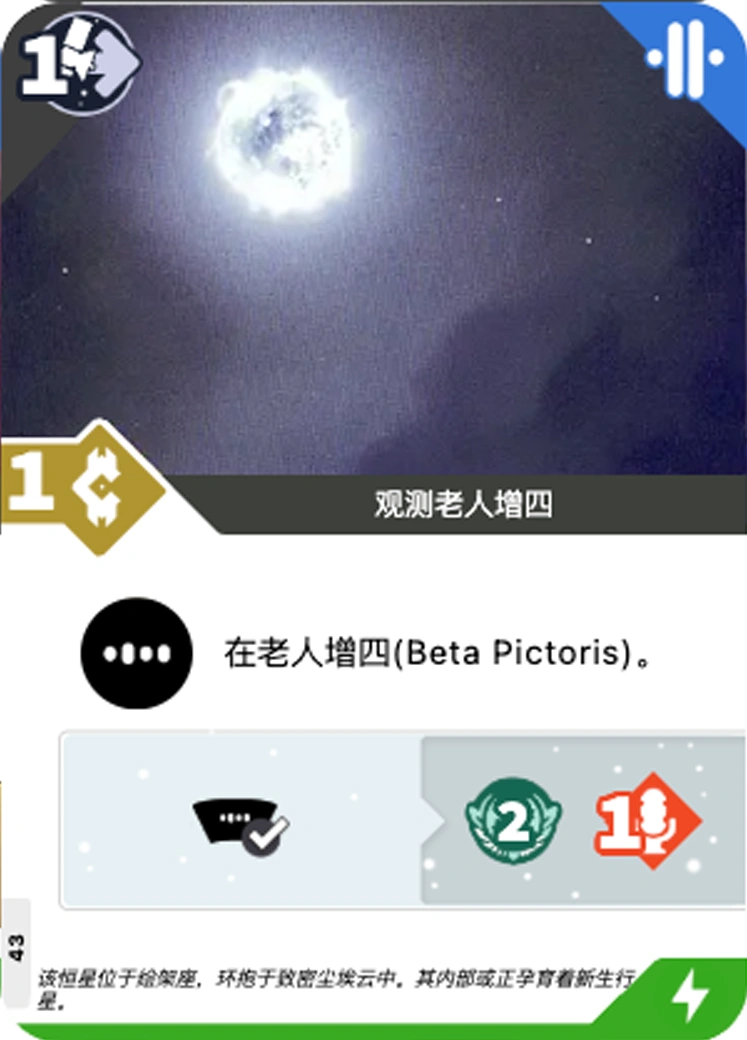
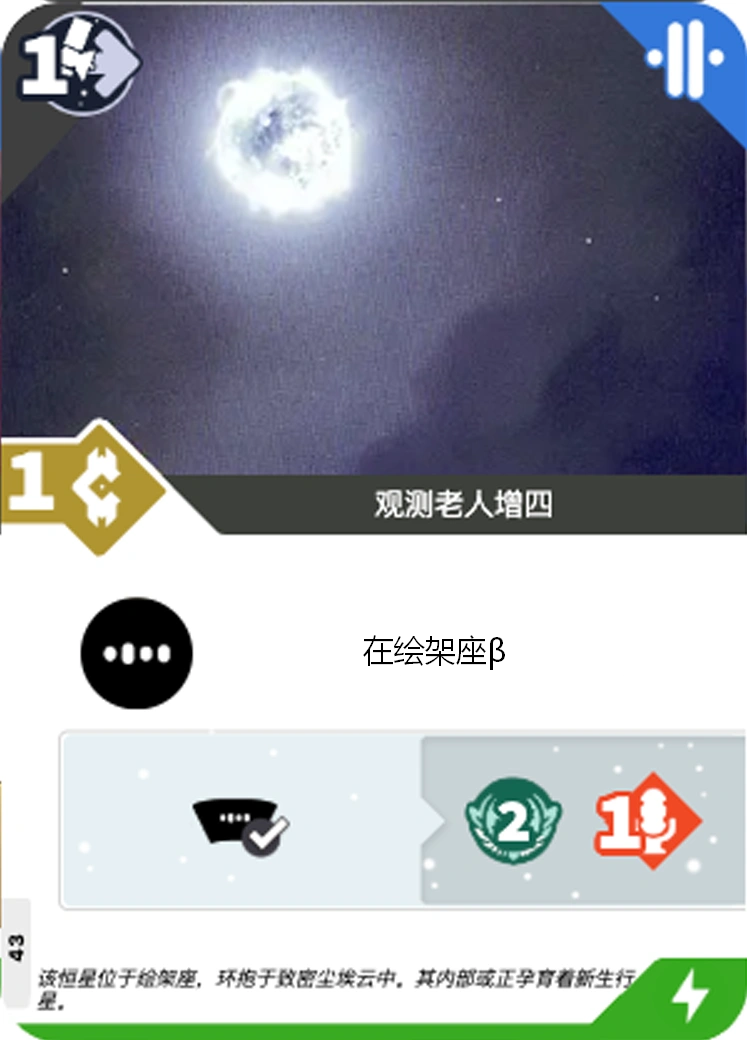
图灵优化，日志优化

Changed region(s): [[0.3079, 0.6154, 0.8621, 0.6462]]

diff --git a/randomizer/app.js b/randomizer/app.js
@@ -155,6 +155,7 @@
   const HISTORY_SOURCE_MAIN = "main";
   const HISTORY_SOURCE_QUICK = "quick";
   const HISTORY_SOURCE_SETUP = "setup";
+  const INDUSTRY_TURING_BORROW_TECH_TYPES = Object.freeze(["orange", "purple"]);
   const historyStepOrder = [];
   const actionLogState = {
     entries: [],
@@ -1743,10 +1744,25 @@
     }
   }
 
-  function createActionLogEffectTextNode(step) {
+  function getActionLogEntryMetaText(entry) {
+    const playerLabel = entry.playerLabel || "未知玩家";
+    const actionLabel = entry.actionLabel || "本回合行动";
+    if (entry.actionType === "quick") return `${playerLabel} · 快速行动`;
+    if (entry.actionType === "initialSelection") return `${playerLabel} · ${actionLabel}`;
+    return `${playerLabel} · 主要行动：${actionLabel}`;
+  }
+
+  function getActionLogStepPrefix(step, displayIndex = null) {
+    if (step?.source === HISTORY_SOURCE_MAIN) {
+      return `效果${displayIndex || 1}`;
+    }
+    return ACTION_LOG_SOURCE_LABELS[step?.source] || "行动";
+  }
+
+  function createActionLogEffectTextNode(step, displayIndex = null) {
     const text = document.createElement("span");
     text.className = "action-log-effect-text";
-    const sourceLabel = ACTION_LOG_SOURCE_LABELS[step.source] || "行动";
+    const sourceLabel = getActionLogStepPrefix(step, displayIndex);
     const line = `${sourceLabel}：${step.text}${formatActionLogIrreversibleSuffix(step)}`;
     appendActionLogTextWithPlayedCard(text, line, step.playedCard);
     return text;
@@ -1770,21 +1786,24 @@
 
     const meta = document.createElement("div");
     meta.className = "action-log-entry-meta";
-    meta.textContent = `${entry.playerLabel || "未知玩家"} · ${entry.actionLabel || "本回合行动"}`;
+    meta.textContent = getActionLogEntryMetaText(entry);
 
     header.append(title, sequence, meta);
 
     const list = document.createElement("ol");
     list.className = "action-log-effects";
+    let mainEffectIndex = 0;
     entry.steps.forEach((step, index) => {
       const item = document.createElement("li");
       item.className = `action-log-effect action-log-effect-${step.source || "main"}`;
+      const isMainEffect = step.source === HISTORY_SOURCE_MAIN;
+      const displayIndex = isMainEffect ? (mainEffectIndex += 1) : index + 1;
 
       const indexNode = document.createElement("span");
       indexNode.className = "action-log-effect-index";
       indexNode.textContent = String(index + 1);
 
-      const text = createActionLogEffectTextNode(step);
+      const text = createActionLogEffectTextNode(step, displayIndex);
 
       item.append(indexNode, text);
       list.append(item);
@@ -21505,7 +21524,7 @@
     techGameState.ui.industryBorrowMode = true;
     techGameState.ui.selectedTileId = null;
     techGameState.ui.pendingTileId = null;
-    techGameState.ui.allowedTechTypes = null;
+    techGameState.ui.allowedTechTypes = [...INDUSTRY_TURING_BORROW_TECH_TYPES];
     techGameState.ui.statusNote = flow.message;
     rocketState.statusNote = flow.message;
     syncTechSelectionChrome();
@@ -21514,7 +21533,39 @@
     return true;
   }
 
+  function failIndustryTuringBorrow(message) {
+    techGameState.ui.statusNote = message;
+    rocketState.statusNote = message;
+    renderTechBoard();
+    renderStateReadout();
+    return { ok: false, message };
+  }
+
+  function checkIndustryTuringBorrowTile(tileId) {
+    const techType = tech.getTechType?.(tileId) || null;
+    if (!INDUSTRY_TURING_BORROW_TECH_TYPES.includes(techType)) {
+      return { ok: false, message: "图灵系统只能借用橙色或紫色科技" };
+    }
+
+    const player = getCurrentPlayer();
+    if (!player) return { ok: false, message: "没有当前玩家" };
+    if (!player.techState) player.techState = players.normalizePlayerTechState(null);
+
+    const check = tech.resolver.canTakeTile(
+      techGameState.board,
+      player.techState,
+      tileId,
+      { techTypes: INDUSTRY_TURING_BORROW_TECH_TYPES },
+    );
+    return check.ok ? { ok: true, techType } : check;
+  }
+
   function confirmIndustryTuringBorrow(tileId) {
+    const borrowCheck = checkIndustryTuringBorrowTile(tileId);
+    if (!borrowCheck.ok) {
+      return failIndustryTuringBorrow(borrowCheck.message || "无法借用该科技");
+    }
+
     const player = getCurrentPlayer();
     const beforePlayer = structuredClone(player);
     player.industryBorrowedTechTileId = tileId;

diff --git a/randomizer/game/tech/tech.test.js b/randomizer/game/tech/tech.test.js
@@ -125,6 +125,23 @@ assert.equal(autoPlayerState.players[0].techState.blueBoardSlots.blue4, 4);
 const takeBlue1Again = tech.resolver.executeTakeTech(context, { tileId: "blue1" });
 assert.equal(takeBlue1Again.ok, false);
 
+const turingBorrowFilterContext = createContext(10);
+const turingBorrowPlayer = players.getCurrentPlayer(turingBorrowFilterContext.playerState);
+turingBorrowFilterContext.ensurePlayerTechState(turingBorrowPlayer);
+const turingBorrowOptions = { techTypes: ["orange", "purple"] };
+assert.equal(
+  tech.resolver.canTakeTile(turingBorrowFilterContext.techGameState.board, turingBorrowPlayer.techState, "blue1", turingBorrowOptions).ok,
+  false,
+);
+assert.equal(
+  tech.resolver.canTakeTile(turingBorrowFilterContext.techGameState.board, turingBorrowPlayer.techState, "orange1", turingBorrowOptions).ok,
+  true,
+);
+assert.equal(
+  tech.resolver.canTakeTile(turingBorrowFilterContext.techGameState.board, turingBorrowPlayer.techState, "purple1", turingBorrowOptions).ok,
+  true,
+);
+
 const depletionBoard = tech.createState().board;
 const orange1Queue = [...depletionBoard.stacks.orange1.bonusQueue];
 for (let index = 0; index < 4; index += 1) {

diff --git a/randomizer/game/industry/industry.test.js b/randomizer/game/industry/industry.test.js
@@ -67,6 +67,9 @@ assert.equal(turingPlayer.industryBorrowedTechTileId, null);
 assert.equal(turingPlayer.industryBorrowedTechRound, 0);
 assert.equal(turingPlayer.industryBorrowedTechTurn, 0);
 assert.equal(state.clearTuringBorrowedTech(turingPlayer).cleared, false);
+const turingFlow = abilities.buildActiveAbilityFlow(turingPlayer, "图灵系统", 2, 4);
+assert.equal(turingFlow.ok, true);
+assert.match(turingFlow.message, /橙色或紫色科技/);
 
 assert.equal(passives.getStandardLaunchCost(alienLabPlayer).credits, 1);
 assert.equal(passives.getStandardScanCost(alienLabPlayer).energy, 2);

diff --git a/randomizer/game/industry/abilities.js b/randomizer/game/industry/abilities.js
@@ -173,7 +173,7 @@
           abilityId,
           flowType: "turing_borrow_tech",
           label: prepared.label,
-          message: `${prepared.label}：请选择一项科技借用当前回合效果（不获得板块与 bonus）`,
+          message: `${prepared.label}：请选择一项橙色或紫色科技借用当前回合效果（不获得板块与 bonus）`,
         };
       case "sentinel_arm_play_corner":
         return {

diff --git a/assets/industry/industry-abilities.md b/assets/industry/industry-abilities.md
@@ -54,7 +54,7 @@
 | 公司 | activeAbilityId | flowType | 规则摘要 |
 |------|-----------------|----------|----------|
 | 层云核心 | `stratus_public_corners` | `stratus_public_corners` | 点击公共牌最多 3 张，逐张结算**左上角弃牌角标**（不弃牌、不移除公共牌） |
-| 图灵系统 | `turing_borrow_tech` | `turing_borrow_tech` | 选择供应区一项科技，**当前回合**借用其效果（不获得板块/bonus）；公司牌下方只复制显示该科技图标 |
+| 图灵系统 | `turing_borrow_tech` | `turing_borrow_tech` | 选择供应区一项橙色或紫色科技，**当前回合**借用其效果（不获得板块/bonus）；公司牌下方只复制显示该科技图标 |
 | 哨兵探测网络 | `sentinel_arm_play_corner` | `sentinel_arm_play_corner` | 武装本轮；**打牌效果队列末尾**追加 `industry_sentinel_corner` 结算打出牌弃牌角标（非外星人） |
 | 寰宇动力 | `huanyu_free_moves` | `huanyu_free_moves` | 至多 2 枚火箭各免费移动 1 次 |
 | 赫利昂联合体 | `helios_remove_tech_income` | `helios_remove_tech` → 弃牌收入 | 移除一项非蓝科技 + 1 次收入（弃 1 张手牌按收入角标） |
@@ -102,7 +102,7 @@
 | `future_span_parking` | 未来跨度研究所 | 专属标记扣牌、目标分、达标后免费打出 | `app.js` 公司牌叠层与打牌流程 |
 | `alien_lab_panels` | 异星实验室 | 三色板块折扣：发射 1 信用点、扫描 2 能量、研究科技 4 宣传；正面板块可点击并等同触发对应主要行动；对应标准主行动后翻背，同色外星痕迹翻回正面 | `launch.js` / `scan-effects.js` / `tech/resolver.js` / `app.js` |
 
-图灵借用：科技效果查询在拥有板块之外，只有当 `industryBorrowedTechTileId === tileId` 且借用的 Round/Turn 都等于当前行动上下文时，才视为拥有；橙色科技经 `players.playerOwnsTech` 生效，紫色扫描科技经 `scan-effects.js` 的扫描队列构建生效。UI 会在公司牌下方复制显示对应科技图标用于提示，不从供应区拿走科技片，也不获得 bonus；回合结束会清空当前玩家借用状态并移除显示图标，新轮开始也会清空所有轮内借用状态。
+图灵借用：只能选择供应区橙色或紫色科技。科技效果查询在拥有板块之外，只有当 `industryBorrowedTechTileId === tileId` 且借用的 Round/Turn 都等于当前行动上下文时，才视为拥有；橙色科技经 `players.playerOwnsTech` 生效，紫色扫描科技经 `scan-effects.js` 的扫描队列构建生效。UI 会在公司牌下方复制显示对应科技图标用于提示，不从供应区拿走科技片，也不获得 bonus；回合结束会清空当前玩家借用状态并移除显示图标，新轮开始也会清空所有轮内借用状态。
 
 ## UI 与 `flowType` 映射（`app.js`）
 

diff --git a/docs/mechanics-reference.md b/docs/mechanics-reference.md
@@ -50,7 +50,7 @@
 - 除异星实验室外，公司牌左下角「1x」圆标位置由 `randomizer/game/industry/placement.js` 的 `INDUSTRY_ACTION_MARKER_SLOTS` 定义（百分比坐标）；未放置标记时公司牌外框蓝色高亮，放置后取消高亮。玩家可在该区域点击放置 `normal_token` 标记，每轮（`turnState.roundNumber` 轮号）每玩家仅可触发一次，状态写入 `player.industryRoundMarkRound`；`player.industryRoundMarkTurn` 只记录标记发生的回合号，不参与刷新判定。放置作为快速行动记录，可通过撤销按钮撤回。放置成功后立即启动该公司对应的 1x 主动能力流程。
 - 公司 1x 主动/被动能力由 `randomizer/game/industry/` 管理（`catalog.js` 定义、`abilities.js` 构建流程、`passives.js` 钩子、`index.js` 聚合为 `SetiIndustry`）；设计与建模详见 `assets/industry/industry-abilities.md`。
   - 层云核心：点击公共牌逐张结算弃牌角标（不弃牌、不移除公共牌），最多 3 张；每次点击与标记均可撤销。
-  - 图灵系统：借用一项供应区科技当前回合效果（不获得板块/bonus；包含紫色科技对扫描行动队列的增强），并在公司牌下方只复制显示该科技图标，回合结束移除；被动：获取蓝色科技 +1 宣传。
+  - 图灵系统：借用一项供应区橙色或紫色科技当前回合效果（不获得板块/bonus；包含紫色科技对扫描行动队列的增强），并在公司牌下方只复制显示该科技图标，回合结束移除；被动：获取蓝色科技 +1 宣传。
   - 哨兵探测网络：1x 标记后武装本轮；打牌时（标记可在打牌前或后）在打牌效果队列末尾追加 `industry_sentinel_corner` 节点，点击后结算打出牌左上角弃牌角标（非外星人，可撤销）；若打牌后才标记且本轮已打牌，会补开哨兵效果队列。被动：发射后扫描地球扇区。
   - 寰宇动力：至多 2 枚火箭各免费移动 1 次；被动：火箭上限 +1。
   - 赫利昂联合体：移除一项非蓝科技 + 1 次收入；1x 开始时清除左上 3 个被动奖励槽 token。移除后该科技片保留在玩家版图并灰显（`disabledTiles`），不再提供能力，且不能再次从供应区拿取同编号板块；仍可研究同色其他编号板块。被动：拿取橙/粉紫/蓝科技后，在科技效果队列末尾追加 `industry_helios_passive_reward` 节点，点击后在对应槽放置 token 并领取奖励（橙=1 能量，粉紫=1 公共牌弃牌扫描标记，蓝=1 数据，可撤销）；槽位坐标在 `placement.js` 的 `HELIOS_PASSIVE_MARKER_SLOTS`。